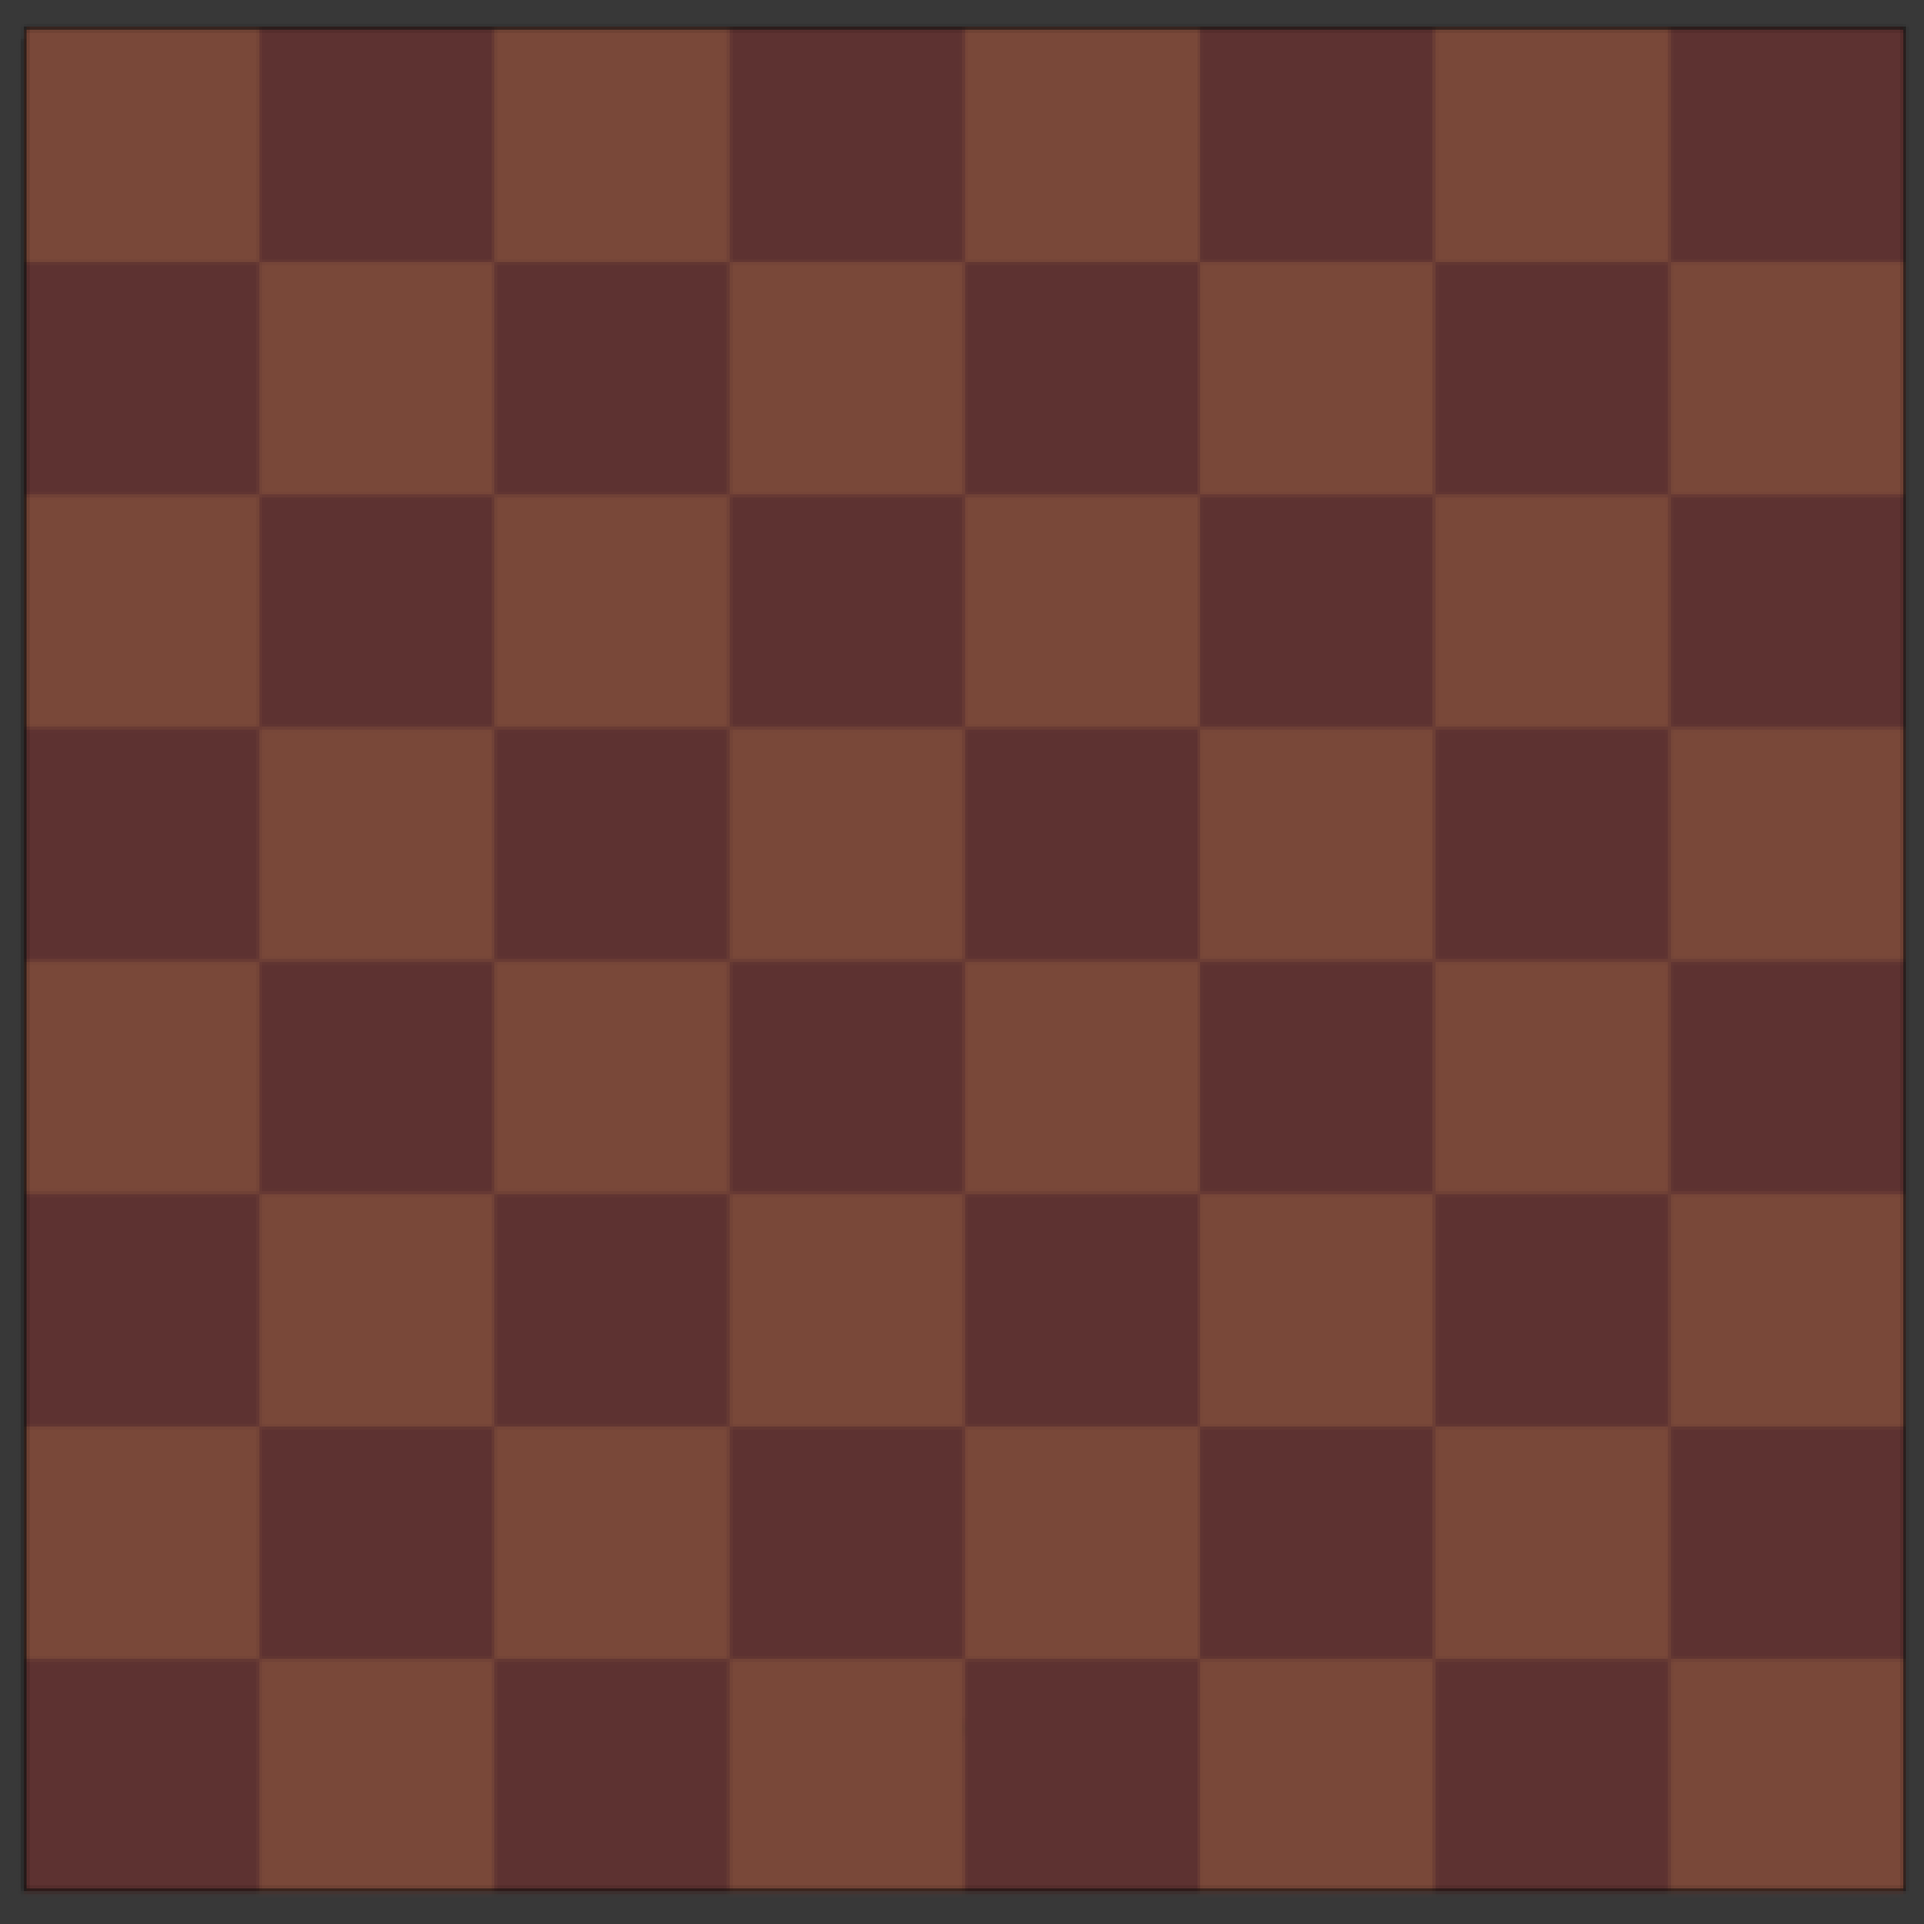
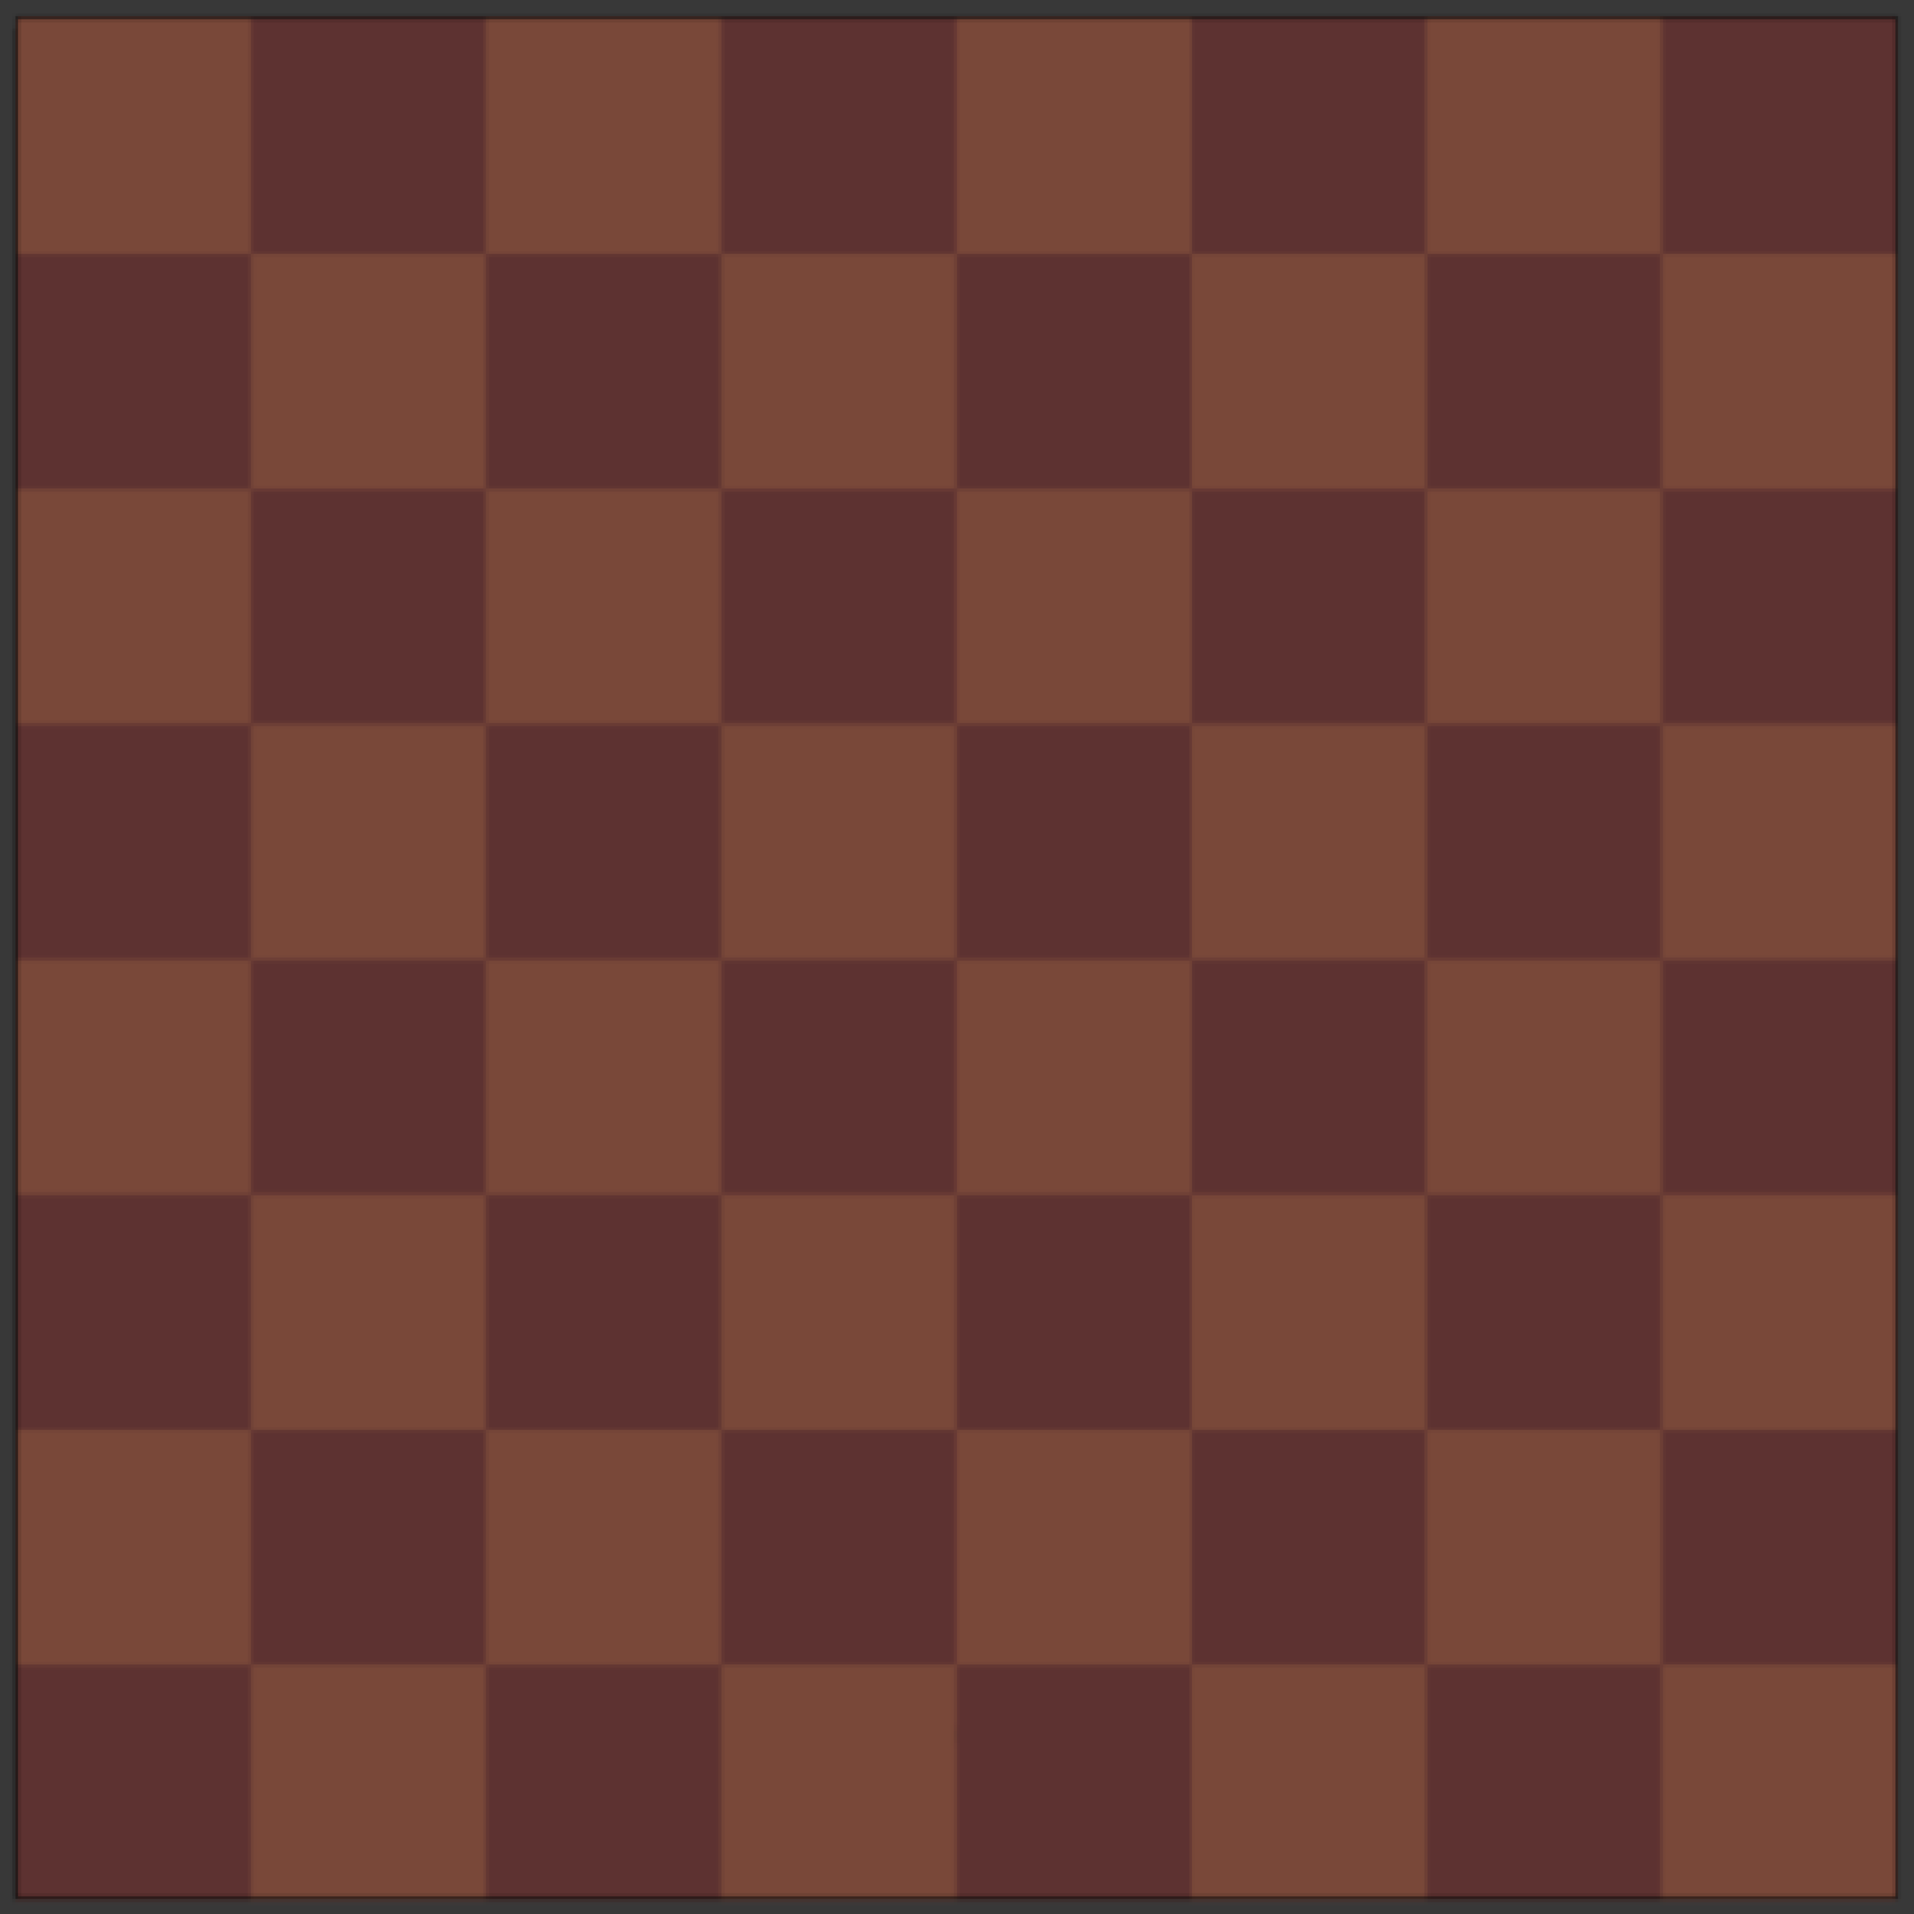
Rewrote sprite code for compatibility with variable window sizes (sloppy)

Changed region(s): [[0.0, 0.0, 0.9956, 0.9956], [0.9644, 0.7156, 0.9956, 0.7467]]

diff --git a/Chess/main.cpp b/Chess/main.cpp
@@ -3,12 +3,12 @@
 #include <time.h>
 #include "Connector.hpp"
 
-#define Z 2
+#define SIZE 800
 
 using namespace sf;
 
-int size = Z * 56; // size of a square in image file
-Vector2f offset(Z * 28, Z * 28); // Starts pieces away from the edges
+int size = 442; // size of a square in image file
+Vector2f offset(32, 32); // starts pieces away from the edges
 
 Sprite f[32]; // figures, first 16 black, last 16 white
 std::string position = ""; // record of all moves
@@ -32,8 +32,8 @@ std::map<int, int> promotedPawns; // keeps track of promoted pawns and their new
 std::string toChessNote(Vector2f p) // Converts position of move to chess notation
 {
 	std::string s = "";
-	s += char(p.x / size + 97);
-	s += char(7 - p.y / size + 49);
+	s += char(p.x / ((SIZE - 2 * offset.x) / 8.f) + 97);
+	s += char(7 - p.y / ((SIZE - 2 * offset.x) / 8.f) + 49);
 	return s;
 }
 
@@ -41,7 +41,7 @@ Vector2f toCoord(char a, char b) // Converts chess notation to positional coordi
 {
 	int x = int(a) - 97;
 	int y = 7 - int(b) + 49;
-	return Vector2f(float(x * size), float(y * size));
+	return Vector2f(x * ((SIZE - 2 * offset.x) / 8.f), y * ((SIZE - 2 * offset.x) / 8.f));
 }
 
 void move(std::string str) // used mainly for loadPosition, executes a single move (including captures)
@@ -51,7 +51,7 @@ void move(std::string str) // used mainly for loadPosition, executes a single mo
 
 	for (int i = 0; i < 32; i++) {
 		if (f[i].getPosition() == newPos) {
-			f[i].setPosition(Z * -100, Z * -100); // taken pieces pile
+			f[i].setPosition(-SIZE, -SIZE); // taken pieces pile
 		}
 	}
 
@@ -74,12 +74,12 @@ void loadPosition() // used if changes are made in 'position' and board state ne
 			int y = (n > 0);
 			std::map<int, int>::iterator it = promotedPawns.find(k);
 			if (it != promotedPawns.end()) { // sets crop in figures.png to match promoted piece
-				f[k].setTextureRect(IntRect((size / Z) * (it->second - 1), (size / Z) * y, size / Z, size / Z));
+				f[k].setTextureRect(IntRect((f[k].getTexture()->getSize().x / 6.f) * (it->second - 1), (f[k].getTexture()->getSize().y / 2.f) * y, f[k].getTexture()->getSize().x / 6.f, f[k].getTexture()->getSize().y / 2.f));
 			}
 			else { // sets crop in figures.png to match piece
-				f[k].setTextureRect(IntRect((size / Z) * x, (size / Z) * y, size / Z, size / Z));
+				f[k].setTextureRect(IntRect((f[k].getTexture()->getSize().x / 6.f) * x, (f[k].getTexture()->getSize().y / 2.f) * y, f[k].getTexture()->getSize().x / 6.f, f[k].getTexture()->getSize().y / 2.f));
 			}
-			f[k].setPosition(float(size * j), float(size * i));
+			f[k].setPosition(((SIZE - 2 * offset.x) / 8.f) * j, ((SIZE - 2 * offset.x) / 8.f) * i);
 			k++;
 		}
 
@@ -93,7 +93,7 @@ void loadPosition() // used if changes are made in 'position' and board state ne
 		move(position.substr(i, 4));
 		std::map<int, int>::iterator it = enPassantPos.find(i);
 		if (it != enPassantPos.end()) {
-			f[it->second].setPosition(Z * -100, Z * -100); // taken pieces pile
+			f[it->second].setPosition(-SIZE, -SIZE); // taken pieces pile
 		}
 	}
 }
@@ -115,7 +115,7 @@ void promotion(int piece, int p) {
 	}
 
 	promotedPawns.insert(std::pair<int, int>(piece, p));
-	f[piece].setTextureRect(IntRect(size * (p - 1), size * color, size, size));
+	f[piece].setTextureRect(IntRect(((SIZE - 2 * offset.x) / 8.f) * (p - 1), ((SIZE - 2 * offset.x) / 8.f) * color, ((SIZE - 2 * offset.x) / 8.f), ((SIZE - 2 * offset.x) / 8.f)));
 }
 
 bool checkCol(Vector2f pos, bool color) { // checks if pieces of certain color occupy a given square
@@ -438,7 +438,7 @@ std::string validMove(std::string str, int piece) { // checks if a move follows 
 			}
 			if (enPassant == true) {
 				enPassantPos.insert(std::pair<int, int>(position.length(), n));
-				f[n].setPosition(Z * -100, Z * -100);
+				f[n].setPosition(-SIZE, -SIZE);
 			}
 		}
 		else {
@@ -452,7 +452,7 @@ std::string validMove(std::string str, int piece) { // checks if a move follows 
 	int j;
 	for (j = !color * 16; j < !color * 16 + 16; j++) {
 		if (f[j].getPosition() == newPos) {
-			f[j].setPosition(Z * -100, Z * -100);
+			f[j].setPosition(-SIZE, -SIZE);
 			break;
 		}
 	}
@@ -498,17 +498,20 @@ int main()
 	ConnectToEngine(enginePath);
 
 	Texture t1, t2;
-	t1.loadFromFile("../images/figures0.png");
-	t2.loadFromFile("../images/board0.png");
+	t1.loadFromFile("../images/figures.png");
+	t2.loadFromFile("../images/board.png");
+
+	offset.x *= SIZE / float(t2.getSize().x);
+	offset.y *= SIZE / float(t2.getSize().y);
 
 	for (int i = 0; i < 32; i++) {
 		f[i].setTexture(t1);
-		f[i].setScale(float(Z), float(Z));
+		f[i].setScale(((SIZE - 2 * offset.x) / 8.f) / (t1.getSize().x / 6.f), ((SIZE - 2 * offset.y) / 8.f) / (t1.getSize().y / 2.f));
 	}
 	Sprite sBoard(t2);
-	sBoard.setScale(float(Z), float(Z));
+	sBoard.setScale(SIZE / float(t2.getSize().x), SIZE / float(t2.getSize().y));
 
-	RenderWindow window(VideoMode(unsigned int(sBoard.getGlobalBounds().width), unsigned int(sBoard.getGlobalBounds().height)), "Chess");
+	RenderWindow window(VideoMode(SIZE, SIZE), "Chess");
 
 	loadPosition();
 
@@ -548,7 +551,7 @@ int main()
 						if (lastPieceMoved >= 8 && lastPieceMoved < 24 && lastMove[1] - '0' == color * 5 + 2 && lastMove[3] - '0' == color * 7 + 1) {
 							std::map<int, int>::iterator it = promotedPawns.find(lastPieceMoved);
 							promotedPawns.erase(it);
-							f[lastPieceMoved].setTextureRect(IntRect(5 * size, color * size, size, size));
+							f[lastPieceMoved].setTextureRect(IntRect(5 * ((SIZE - 2 * offset.x) / 8.f), color * ((SIZE - 2 * offset.x) / 8.f), ((SIZE - 2 * offset.x) / 8.f), ((SIZE - 2 * offset.x) / 8.f)));
 						}
 
 						if (position.length() < 6)
@@ -615,8 +618,8 @@ int main()
 			if (e.type == Event::MouseButtonReleased && e.key.code == Mouse::Left && holdingPiece)
 			{
 				isMove = false;
-				Vector2f p = f[n].getPosition() + Vector2f(float(size / 2), float(size / 2));
-				newPos = Vector2f(float(size * int(p.x / size)), float(size * int(p.y / size)));
+				Vector2f p = f[n].getPosition() + Vector2f(((SIZE - 2 * offset.x) / 8.f) / 2, ((SIZE - 2 * offset.x) / 8.f) / 2);
+				newPos = Vector2f(((SIZE - 2 * offset.x) / 8.f) * int(p.x / ((SIZE - 2 * offset.x) / 8.f)), ((SIZE - 2 * offset.x) / 8.f) * int(p.y / ((SIZE - 2 * offset.x) / 8.f)));
 
 				str = toChessNote(oldPos) + toChessNote(newPos);
 
